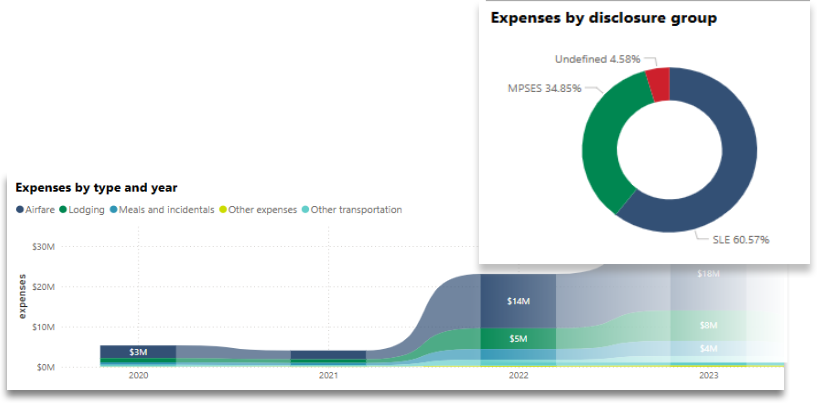
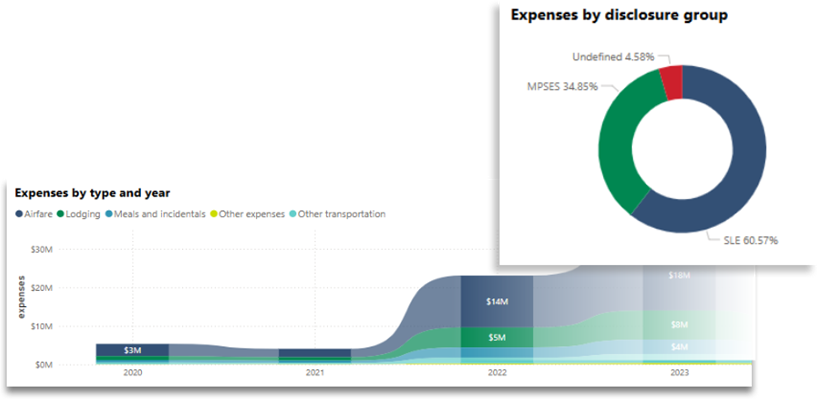
OPEN-3684: Add a graphic to the Travel search for a link to  the new visualization - add support for different media sizes

diff --git a/travelq/snippets/travelq_header.css b/travelq/snippets/travelq_header.css
@@ -1,0 +1,309 @@
+@import url('https://fonts.googleapis.com/css2?family=Lato:wght@900&display=swap');
+
+.btn-success, a.btn-success {
+  color: #fff;
+  background-color: #278400;
+  border-color: #278400;
+  box-shadow: none; }
+  .btn-success:hover, a:not([href]):hover {
+    color: #fff;
+    background-color: #1c5e00;
+    border-color: #185100; }
+  .btn-success:focus, .btn-success.focus {
+    box-shadow: none, 0 0 0 0.2rem rgba(39, 132, 0, 0.5); }
+  .btn-success.disabled, .btn-success:disabled {
+    color: #fff;
+    background-color: #278400;
+    border-color: #278400; }
+  .btn-success:not(:disabled):not(.disabled):active, .btn-success:not(:disabled):not(.disabled).active,
+  .show > .btn-success.dropdown-toggle {
+    color: #fff;
+    background-color: #185100;
+    border-color: #144400; }
+    .btn-success:not(:disabled):not(.disabled):active:focus, .btn-success:not(:disabled):not(.disabled).active:focus,
+    .show > .btn-success.dropdown-toggle:focus {
+      box-shadow: inset 0 3px 5px rgba(0, 0, 0, 0.125), 0 0 0 0.2rem rgba(39, 132, 0, 0.5); }
+
+.btn-danger, a.btn-danger {
+  color: #fff;
+  background-color: #d3080c;
+  border-color: #d3080c;
+  box-shadow: none; }
+  .btn-danger:hover, a:not([href]):hover {
+    color: #fff;
+    background-color: #ae070a;
+    border-color: #a20609; }
+  .btn-danger:focus, .btn-danger.focus {
+    box-shadow: none, 0 0 0 0.2rem rgba(211, 8, 12, 0.5); }
+  .btn-danger.disabled, .btn-danger:disabled {
+    color: #fff;
+    background-color: #d3080c;
+    border-color: #d3080c; }
+  .btn-danger:not(:disabled):not(.disabled):active, .btn-danger:not(:disabled):not(.disabled).active,
+  .show > .btn-danger.dropdown-toggle {
+    color: #fff;
+    background-color: #a20609;
+    border-color: #960609; }
+    .btn-danger:not(:disabled):not(.disabled):active:focus, .btn-danger:not(:disabled):not(.disabled).active:focus,
+    .show > .btn-danger.dropdown-toggle:focus {
+      box-shadow: inset 0 3px 5px rgba(0, 0, 0, 0.125), 0 0 0 0.2rem rgba(211, 8, 12, 0.5); }
+
+
+.btn-info, a.btn-info {
+  color: #fff;
+  background-color: #269abc;
+  border-color: #269abc;
+  box-shadow: none; }
+  .btn-info:hover, a:not([href]):hover {
+    color: #fff;
+    background-color: #20809c;
+    border-color: #1d7792; }
+  .btn-info:focus, .btn-info.focus {
+    box-shadow: none, 0 0 0 0.2rem rgba(38, 154, 188, 0.5); }
+  .btn-info.disabled, .btn-info:disabled {
+    color: #fff;
+    background-color: #269abc;
+    border-color: #269abc; }
+  .btn-info:not(:disabled):not(.disabled):active, .btn-info:not(:disabled):not(.disabled).active,
+  .show > .btn-info.dropdown-toggle {
+    color: #fff;
+    background-color: #1d7792;
+    border-color: #1b6f87; }
+    .btn-info:not(:disabled):not(.disabled):active:focus, .btn-info:not(:disabled):not(.disabled).active:focus,
+    .show > .btn-info.dropdown-toggle:focus {
+      box-shadow: inset 0 3px 5px rgba(0, 0, 0, 0.125), 0 0 0 0.2rem rgba(38, 154, 188, 0.5); }
+
+
+.btn-secondary, a.btn-secondary {
+  color: #002D42;
+  background-color: transparent;
+  background-image: none;
+  border-color: #002D42; }
+  .btn-secondary:hover, a:not([href]):hover {
+    color: #fff;
+    background-color: #002D42;
+    border-color: #002D42; }
+  .btn-secondary:focus, .btn-secondary.focus {
+    box-shadow: 0 0 0 0.2rem rgba(0, 45, 66, 0.5); }
+  .btn-secondary.disabled, .btn-secondary:disabled {
+    color: #002D42;
+    background-color: transparent; }
+  .btn-secondary:not(:disabled):not(.disabled):active, .btn-secondary:not(:disabled):not(.disabled).active,
+  .show > .btn-secondary.dropdown-toggle {
+    color: #fff;
+    background-color: #002D42;
+    border-color: #002D42; }
+    .btn-secondary:not(:disabled):not(.disabled):active:focus, .btn-secondary:not(:disabled):not(.disabled).active:focus,
+    .show > .btn-secondary.dropdown-toggle:focus {
+      box-shadow: inset 0 3px 5px rgba(0, 0, 0, 0.125), 0 0 0 0.2rem rgba(0, 45, 66, 0.5); }
+
+.badge {
+  display: inline-block;
+  padding: 0.25em 0.4em;
+  font-size: 80%;
+  font-weight: normal;
+  line-height: 1;
+  text-align: center;
+  white-space: nowrap;
+  vertical-align: baseline;
+  border-radius: 0.35rem; }
+  .badge:empty {
+    display: none; }
+
+  .badge-medium {
+  padding: 0.4em 0.8em;
+  }
+
+.badge-primary {
+  color: #fff;
+  background-color: #002D42; }
+  .badge-primary[href]:hover, .badge-primary[href]:focus {
+    color: #fff;
+    text-decoration: none;
+    background-color: #000a0f; }
+
+.badge-secondary {
+  color: #fff;
+  background-color: #4D5D6C; }
+  .badge-secondary[href]:hover, .badge-secondary[href]:focus {
+    color: #fff;
+    text-decoration: none;
+    background-color: #38434e; }
+
+.badge-success {
+  color: #fff;
+  background-color: #278400; }
+  .badge-success[href]:hover, .badge-success[href]:focus {
+    color: #fff;
+    text-decoration: none;
+    background-color: #185100; }
+
+.badge-federal {
+  color: #fff;
+  background-color: #0D467D; }
+  .badge-success[href]:hover, .badge-success[href]:focus {
+    color: #fff;
+    text-decoration: none;
+    background-color: #137991; }
+
+ .badge-provincial {
+  color: #fff;
+  background-color: #137991; }
+  .badge-success[href]:hover, .badge-success[href]:focus {
+    color: #000;
+    text-decoration: none;
+    background-color: #6dd2da; }
+
+.badge-municipal{
+  color: #000;
+  background-color: #6dd2da; }
+  .badge-success[href]:hover, .badge-success[href]:focus {
+    color: #000;
+    text-decoration: none;
+    background-color: #ff9f40; }
+
+.badge-info {
+  color: #fff;
+  background-color: #269abc; }
+  .badge-info[href]:hover, .badge-info[href]:focus {
+    color: #fff;
+    text-decoration: none;
+    background-color: #1d7792; }
+
+.badge-warning {
+  color: #212529;
+  background-color: #ff9900; }
+  .badge-warning[href]:hover, .badge-warning[href]:focus {
+    color: #212529;
+    text-decoration: none;
+    background-color: #cc7a00; }
+
+.badge-danger {
+  color: #fff;
+  background-color: #d3080c; }
+  .badge-danger[href]:hover, .badge-danger[href]:focus {
+    color: #fff;
+    text-decoration: none;
+    background-color: #a20609; }
+
+.badge-light {
+  color: #212529;
+  background-color: #FFFFFF; }
+  .badge-light[href]:hover, .badge-light[href]:focus {
+    color: #212529;
+    text-decoration: none;
+    background-color: #e6e6e6; }
+
+.badge-dark {
+  color: #fff;
+  background-color: #343a40; }
+  .badge-dark[href]:hover, .badge-dark[href]:focus {
+    color: #fff;
+    text-decoration: none;
+    background-color: #1d2124; }
+
+  .badge-success-status {
+      color: #000;
+      background-color: #D8EECA;
+      border: 2px solid #278400;
+  }
+
+  .badge-error-status {
+      color: #923534;
+      background-color: #F3E9E8;
+      border: 2px solid #D3080C;
+  }
+
+  .badge-warning-status {
+      color: #66512C;
+      background-color: #F9F4D4;
+      border: 2px solid #FF9900;
+  }
+
+  .badge-info-status {
+      color: #245269;
+      background-color: #D7FAFF;
+      border: 2px solid #269ABC;
+  }
+
+.aurora-list-group-item-success {
+  color: #144500;
+  background-color: #278400; }
+  .aurora-list-group-item-success.list-group-item-action:hover, .aurora-list-group-item-success.list-group-item-action:focus {
+    color: #144500;
+    background-color: #b4d5a7; }
+  .aurora-list-group-item-success.list-group-item-action.active {
+    color: #fff;
+    background-color: #144500;
+    border-color: #144500; }
+  .aurora-list-group-item-success:visited, .aurora-list-group-item-success:link {
+    color: #FFFFFF;
+    text-decoration: none;
+  }
+
+.aurora-list-group-item-info {
+  color: #145062;
+  background-color: #245269; }
+  .list-group-item-info.list-group-item-action:hover, .list-group-item-info.list-group-item-action:focus {
+    color: #145062;
+    background-color: #afdae6; }
+  .list-group-item-info.list-group-item-action.active {
+    color: #fff;
+    background-color: #145062;
+    border-color: #145062; }
+  .aurora-list-group-item-info:visited, .aurora-list-group-item-info:link {
+    color: #FFFFFF;
+    text-decoration: none;
+  }
+
+ .list-group-item.active .badge {background-color: #ffffff; color: #2572b4}
+ .label {white-space: normal}
+
+.decal {
+    color: #fff;
+    background-color: #26374A;
+    border-color: #278400;
+    border: thin solid;
+    box-shadow: none;
+    padding: 0.5rem 1rem;
+    text-align: center;
+    font-size: smaller;
+    font-weight: bold;
+    display: inline-block;
+    border-radius: 6px;
+}
+
+.decal-status {
+    background: #137991;
+    color: #fff;
+}
+
+.decal-subject {
+    color: #000;
+    background: #e4f0cc;
+    border-color: #0d7f3a;
+    font-weight: normal;
+}
+
+.decal-outline {
+    background: #def2f8;
+    color: #000000;
+    border-color: #0b4961;
+    font-weight: normal;
+}
+
+@media (min-width: 960px) {
+    .teaser-img-right {
+        max-width: 650px;
+        position: absolute;
+        top: -5.0em;
+        z-index: -1;
+    }
+}
+
+@media (max-width: 959px) {
+    .teaser-img-right {
+        max-width: 650px;
+        position: initial;
+    }
+}

diff --git a/travelq/snippets/travelq_default_main_content_body_top.html b/travelq/snippets/travelq_default_main_content_body_top.html
@@ -2,29 +2,37 @@
 {% load search_extras %}
 {% load static %}
 
-<div class="col-md-12" style="display: flex; justify-content: center;">
+<div class="col-md-12 mrgn-tp-lg" style="display: flex; justify-content: center;">
 {% if language == "fr" %}
-  <div class="row mrgn-bttm-lg mrgn-lft-lg">
-    <div class="col-md-4" style="font-family: Lato,sans-serif;">
-      <div style="font-size: 1.4em; font-weight: 900; border-bottom: .18em solid #e6a1e4; margin-bottom: .4em; margin-top: .8em; padding-bottom: .4em; border-image: linear-gradient(to right,#e6a1e4 71px,transparent 71px); border-image-slice: 1">Examinez les frais de voyage<br>Visualisation des données</div>
-      <div>Auto-explorez les dépenses de voyage visualisées par institutions, les voyages par institution, la création de rapports personnalisés, l'exportation et le partage.</div>
-      <div class="text-left mrgn-tp-lg"><a href="https://stadification.ouvert.canada.ca/data/fr/dataset/009f9a49-c2d9-4d29-a6d4-1a228da335ce/resource/3a3c92ab-ee12-4873-9542-3ff04efb8545" class="btn btn-primary" role="button" alt="Link to visualization">Explorer</a></div>
+  <div class="row mrgn-lft-lg">
+    <div class="row">
+      <div class="col-md-6 col-xs-12" style="font-family: Lato,sans-serif;">
+        <div style="font-size: 1.8em; font-weight: 900; border-bottom: .18em solid #e6a1e4; margin-bottom: .4em; margin-top: .8em; padding-bottom: 1.0em; border-image: linear-gradient(to right,#e6a1e4 71px,transparent 71px); border-image-slice: 1">Examinez les frais de voyage<br>Visualisation des données</div>
+      </div>
+      <div class="col-md-6 col-xs-12"></div>
     </div>
-    <div class="col-md-8 mrgn-bttm-lg">
-      <!-- img src="{% static 'search_snippets/custom/travelq/expense-1-en.png' %}" class="img-responsive pstn-tp-md pstn-rght-md" style="z-index: 2; max-width: 250px" -->
-      <img src="{% static 'search_snippets/custom/travelq/tr_teaser-fr.png' %}" class="img-responsive full-width pstn-tp-md" style="max-width: 650px;">
+    <div class="row">
+      <div class="col-md-4 col-xs-12" style="font-family: Lato,sans-serif;">
+        <div>Auto-explorez les dépenses de voyage visualisées par institutions, les voyages par institution, la création de rapports personnalisés, l'exportation et le partage.</div>
+        <div class="text-left mrgn-tp-lg"><a href="https://stadification.ouvert.canada.ca/data/fr/dataset/009f9a49-c2d9-4d29-a6d4-1a228da335ce/resource/3a3c92ab-ee12-4873-9542-3ff04efb8545" class="btn btn-primary" role="button" alt="Link to visualization">Explorer</a></div>
+      </div>
+      <div class="col-md-8 col-xs-12"><img src="{% static 'search_snippets/custom/travelq/tr_teaser-fr.png' %}" class="img-responsive full-width teaser-img-right"></div>
     </div>
   </div>
 {% else %}
-  <div class="row mrgn-bttm-lg">
-    <div class="col-md-4" style="font-family: Lato,sans-serif;">
-      <div style="font-size: 1.4em; font-weight: 900; border-bottom: .18em solid #e6a1e4; margin-bottom: .4em; margin-top: .8em; padding-bottom: .4em; border-image: linear-gradient(to right,#e6a1e4 71px,transparent 71px); border-image-slice: 1">Examine the Travel Expenses<br>Data Visualization</div>
-      <div>Self-explore visualized travel expenses by institutions, travels by institution, custom report building, export and share.</div>
-      <div class="text-left mrgn-tp-lg"><a href="https://staging.open.canada.ca/data/en/dataset/009f9a49-c2d9-4d29-a6d4-1a228da335ce/resource/3a3c92ab-ee12-4873-9542-3ff04efb8545" class="btn btn-primary" role="button" alt="Link to visualization">Explore</a></div>
+  <div class="row mrgn-lft-lg">
+    <div class="row">
+      <div class="col-md-6 col-xs-12" style="font-family: Lato,sans-serif;">
+        <div style="font-size: 1.8em; font-weight: 900; border-bottom: .18em solid #e6a1e4; margin-bottom: .4em; margin-top: .8em; padding-bottom: 1.0em; border-image: linear-gradient(to right,#e6a1e4 71px,transparent 71px); border-image-slice: 1">Examine the Travel Expenses<br>Data Visualization</div>
+      </div>
+      <div class="col-md-6 col-xs-12"></div>
     </div>
-    <div class="col-md-8 mrgn-bttm-lg">
-      <!-- img src="{% static 'search_snippets/custom/travelq/expense-1-en.png' %}" class="img-responsive pstn-tp-md pstn-rght-md" style="z-index: 2; max-width: 250px" -->
-      <img src="{% static 'search_snippets/custom/travelq/tr_teaser-en.png' %}" class="img-responsive full-width pstn-tp-md" style="max-width: 650px;">
+    <div class="row">
+      <div class="col-md-4 col-xs-12" style="font-family: Lato,sans-serif;">
+        <div>Self-explore visualized travel expenses by institutions, travels by institution, custom report building, export and share.</div>
+        <div class="text-left mrgn-tp-lg"><a href="https://staging.open.canada.ca/data/en/dataset/009f9a49-c2d9-4d29-a6d4-1a228da335ce/resource/3a3c92ab-ee12-4873-9542-3ff04efb8545" class="btn btn-primary" role="button" alt="Link to visualization">Explore</a></div>
+      </div>
+      <div class="col-md-8 col-xs-12"><img src="{% static 'search_snippets/custom/travelq/tr_teaser-en.png' %}" class="img-responsive full-width teaser-img-right"></div>
     </div>
   </div>
 {% endif %}
